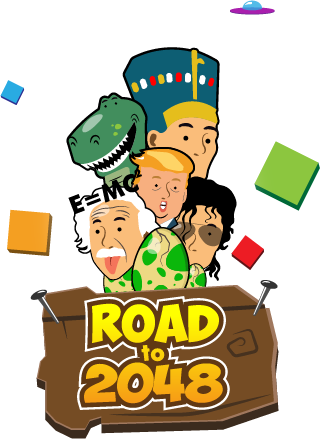
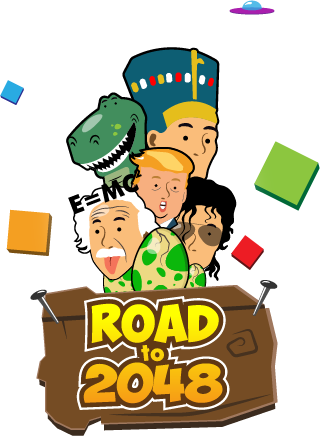
pantalla principal arreglada

diff --git a/index.html b/index.html
@@ -16,15 +16,17 @@
                 </div>
                
         </section>
-        <section id="pantinicial" class="none">
-                <div class="alturatotal1">
-                                <img class="box-ini" onclick="cambiodenone('pantinicial','ayuda3');" src="img/ayuda.png" alt="">
-                                <div class="anchoganaste">
-                                        <img class="fotoganaste" src="img/Titulo_personajes.png" alt="">
-                                </div>
-                        <div class="cont2">
-                                <img class="box-inicio centrar" onclick="cambiodenone('pantinicial','juego');" src="img/play.png" alt="">
-                        </div>
+        <section id="pantinicial" class="none bkground">
+                <div class="all">
+                <div class="botonayuda">
+                        <img class="box-ini" onclick="cambiodenone('pantinicial','ayuda3');" src="img/ayuda.png" alt="">
+                </div>
+                <div class="box-ini-mitad">
+                        <img class="imgcentro" src="img/Titulo_personajes.png" alt="">
+                </div>
+                <div class="box-ini-abajo">
+                        <img class="box-inicio centrar" onclick="cambiodenone('pantinicial','juego');" src="img/play.png" alt="">
+                </div>
                 </div>
         </section>
         <section id="juego" class="none">

diff --git a/css/main.css b/css/main.css
@@ -33,9 +33,43 @@ p{
 
 
 
-html, body {
-  height: 100vh;
+html, body, section {
+  width: 100%;
+  height: 100%;
   background-color: #eae486;
+}
+section{
+  padding: 10% 5%;
+}
+.bkground{
+background-image: url("../img/Fondo-300x300.png");
+}
+.all{
+  width: 100%;
+  height: 100%;
+}
+.botonayuda{
+  width: 10%;
+  height: 5%;
+  float: right;
+  display: block;
+}
+.box-ini{
+  width: 100%;
+  height: 100%;
+}
+.box-ini-mitad{
+  width: 100%;
+  height: 80%;
+}
+.box-ini-abajo{
+  width: 100%;
+  height: 20%;
+}
+.imgcentro{
+  background-position: center center;
+  width: 100%;
+  height: 100%;
 }
 
 .boton, .boton2{
@@ -61,14 +95,7 @@ html, body {
   display: none;
 }
 
-.alturatotal1{
-  
- 
-  width: 100%;
-  height: 100vh;
-  background-image: url("../img/inicio.png");
-  background-repeat: no-repeat;
-}
+
 .alturatotal{
   width: 100%;
   height: 100vh;
@@ -216,15 +243,10 @@ html, body {
   width: 35%;
 }
 .box-inicio{
-  width: 50%;
+  width: 30%;
   padding-top: 15%;
 }
-.box-ini{
-  width: 9%;
-  padding-top: 5%;
-  margin-right: 5%;
-  float: right;
-}
+
 
 .anchoganaste{
   width: 100%;
